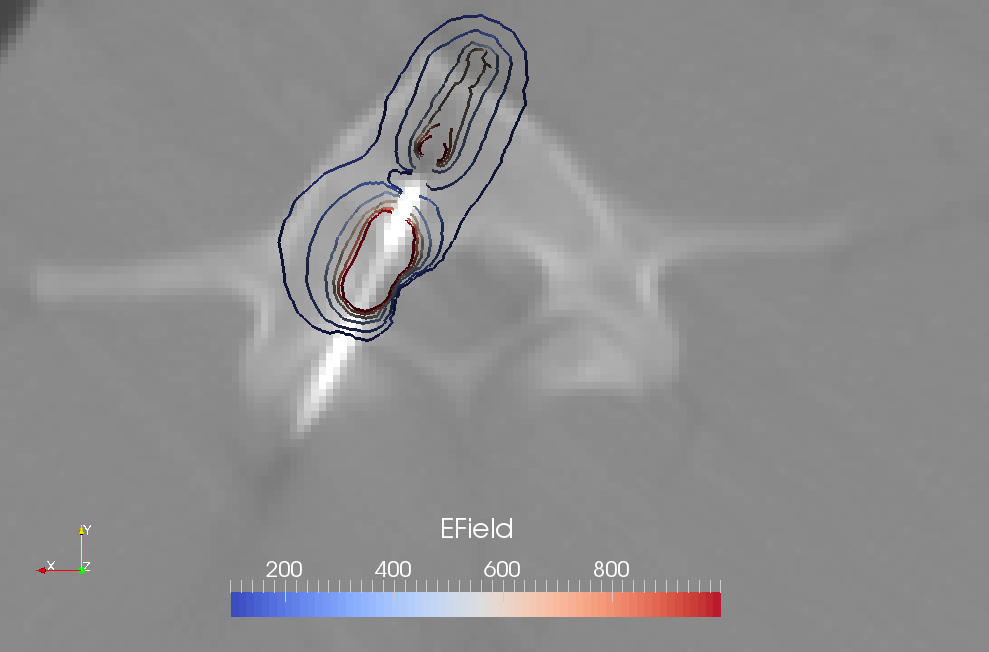
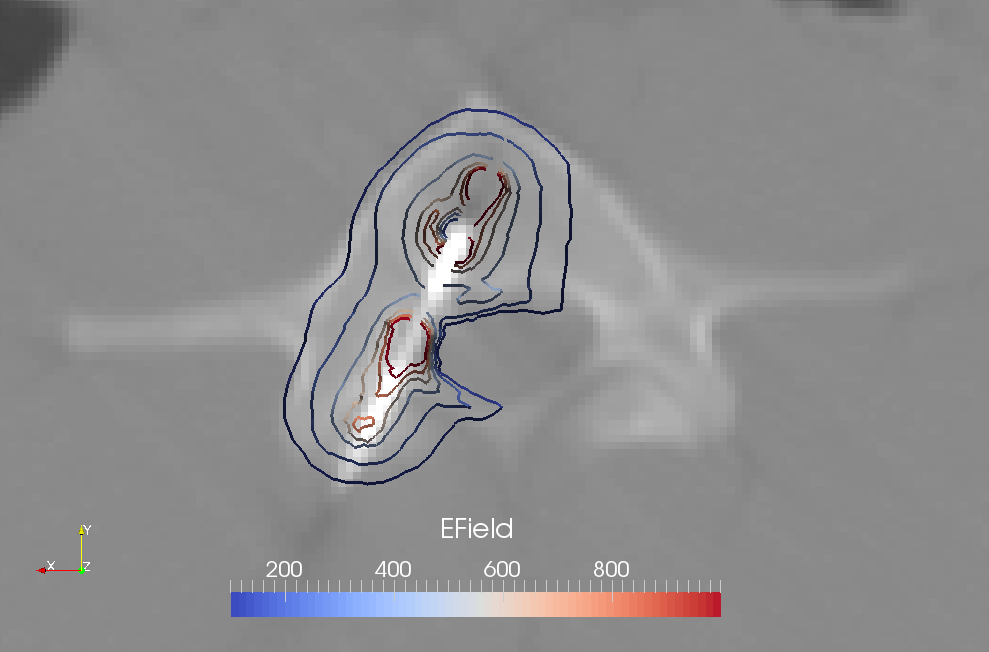
BUG: registration error

diff --git a/Code/ireSolver.py b/Code/ireSolver.py
@@ -27,7 +27,7 @@ def WriteVTKPoints(vtkpoints,OutputFileName):
 
 # Applicator Transform
 def GetApplicatorTransform(pointtip,pointentry,SourceLandmarkFileName, TargetLandmarkFileName ):
-  ApplicatorTipLength = .001 #m
+  ApplicatorTipLength = .011 #m
   # template applicator center at coordinate       (0,                         0., 0. ) m
   # template applicator distal ends at coordinates (0,  0.,+/- ApplicatorTipLength/2. ) m
   originalOrientation = vtk.vtkPoints()
@@ -40,8 +40,8 @@ def GetApplicatorTransform(pointtip,pointentry,SourceLandmarkFileName, TargetLan
   print "points", pointentry, pointtip, pointscaled, slicerLength, numpy.linalg.norm( unitdirection  ), numpy.linalg.norm( pointscaled - pointtip ) 
   slicerOrientation   = vtk.vtkPoints()
   slicerOrientation.SetNumberOfPoints(2)
-  slicerOrientation.SetPoint(0,pointtip[   0],pointtip[   1],pointtip[   2] )
-  slicerOrientation.SetPoint(1,pointscaled[0],pointscaled[1],pointscaled[2] )
+  slicerOrientation.SetPoint(0,pointscaled[0],pointscaled[1],pointscaled[2] )
+  slicerOrientation.SetPoint(1,pointtip[   0],pointtip[   1],pointtip[   2] )
 
   # write landmarks to file
   WriteVTKPoints(originalOrientation,SourceLandmarkFileName)
